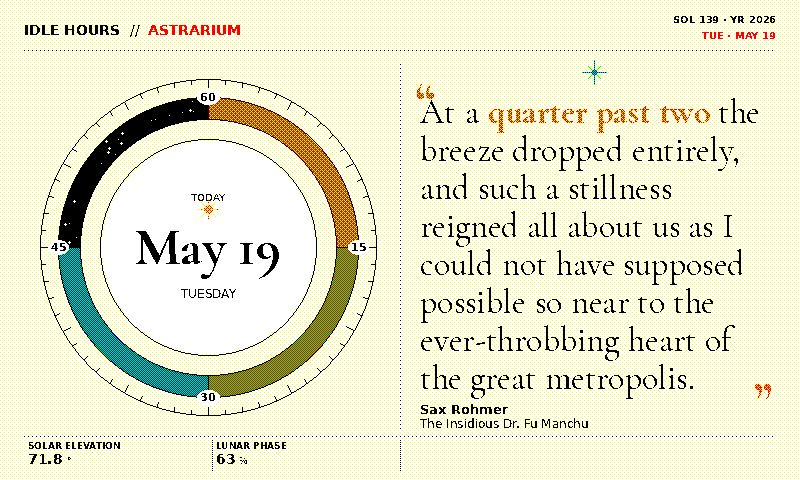
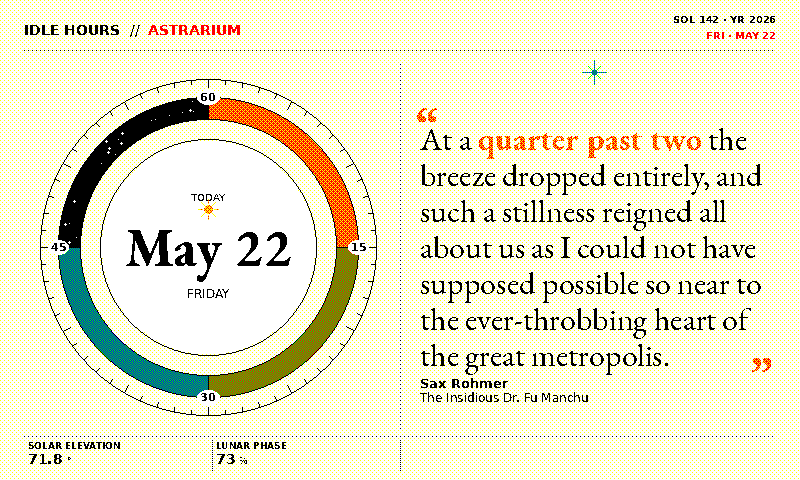
README: add cartograph entry, refresh astrarium preview
Two README updates following the astrarium body-face swap and the
cartograph theme addition:

* **Theme table:** add a ``cartograph`` row before ``diags`` (the
  position THEME_ORDER puts it in); bump the theme count from
  thirty-two to thirty-three; switch the astrarium row's typeface
  from ``Cormorant Garamond`` to ``EB Garamond``; refresh the
  astrarium preview PNG so it reflects the new body face. The
  cartograph preview is fresh (rendered with the same ``--time
  14:15`` / ``--mode production`` invocation the regen-loop
  documents).

* **Theme descriptions:** rewrite the astrarium paragraph to call
  out the EB Garamond body face and the eInk-legibility rationale
  for the swap from Cormorant Garamond; add a new cartograph
  descriptive paragraph covering the eleven layers (cream wash,
  graticule, rhumb lines, foxing, coastlines, islands, compass rose,
  sea serpent, place names, cartouche knockout, registration
  crosses), the typographic register (IM Fell English italic body
  + upright Roman matched phrase as the period-accurate
  cartographic place-name vs body-prose distinction), and the
  ``--mode debug`` compatibility (standard render path so the debug
  banner applies, unlike the four custom-render themes).

* **Regen loop:** add ``cartograph`` to the preview-rebuild
  ``for theme in ...`` snippet so it stays in sync with
  THEME_ORDER.

No font additions needed — every face cartograph uses (IM Fell
English Regular + Italic) was already bundled for the
[…]

diff --git a/README.md b/README.md
@@ -261,7 +261,7 @@ idle-hours run --once --display-script display_inky.py --mode production
 
 ### Themes
 
-Thirty-two themes ship built-in, all constrained to the Spectra 6 panel palette (white / black / red / yellow / blue / green). Each theme pairs its palette with a dedicated typeface. Previews use a fixed quote so palette + typography are the only variables; production renders adapt layout to the picked line.
+Thirty-three themes ship built-in, all constrained to the Spectra 6 panel palette (white / black / red / yellow / blue / green). Each theme pairs its palette with a dedicated typeface. Previews use a fixed quote so palette + typography are the only variables; production renders adapt layout to the picked line.
 
 | `--theme`     | Preview | Page bg | Body  | Accent | Typeface             | Feel                          |
 |---------------|---------|---------|-------|--------|----------------------|-------------------------------|
@@ -294,16 +294,19 @@ Thirty-two themes ship built-in, all constrained to the Spectra 6 panel palette 
 | `lcars`       | <img src="idle_hours/assets/previews/lcars.png" width="240" alt="lcars theme preview">             | black       | white | yellow | Antonio (condensed sans) | LCARS console (Okudagram) |
 | `fillmore`    | <img src="idle_hours/assets/previews/fillmore.png" width="240" alt="fillmore theme preview">       | yellow      | red   | blue   | Bungee Shade (3D display) | 1960s psychedelic concert poster |
 | `firmament`   | <img src="idle_hours/assets/previews/firmament.png" width="240" alt="firmament theme preview">     | navy        | white | gold   | Cardo (humanist serif) | 17th-century celestial atlas (Bayer's *Uranometria*) |
-| `astrarium`   | <img src="idle_hours/assets/previews/astrarium.png" width="240" alt="astrarium theme preview">     | cream/white | black | tangerine | Cormorant Garamond | Astronomical-clock dashboard (custom layout) |
+| `astrarium`   | <img src="idle_hours/assets/previews/astrarium.png" width="240" alt="astrarium theme preview">     | cream/white | black | tangerine | EB Garamond          | Astronomical-clock dashboard (custom layout) |
 | `kanagawa`    | <img src="idle_hours/assets/previews/kanagawa.png" width="240" alt="kanagawa theme preview">       | white       | black | red    | Yuji Boku (sumi-brush) | Hokusai-inspired seigaiha woodblock |
 | `marquee`     | <img src="idle_hours/assets/previews/marquee.png" width="240" alt="marquee theme preview">         | black       | white | red    | Cardo Italic + Bungee Shade | 1930s movie-palace marquee (custom layout) |
 | `tarot`       | <img src="idle_hours/assets/previews/tarot.png" width="240" alt="tarot theme preview">             | cream/white | black | Tyrian purple | EB Garamond + Cinzel Decorative | Major-arcana card (custom layout) |
 | `vinyl`       | <img src="idle_hours/assets/previews/vinyl.png" width="240" alt="vinyl theme preview">             | cream/white | black | tangerine | Cormorant Garamond | Turntable + literary-audiobook LP (custom layout) |
+| `cartograph`  | <img src="idle_hours/assets/previews/cartograph.png" width="240" alt="cartograph theme preview">   | cream/white | black | red    | IM Fell English Italic | Antique cartographer's chart |
 | `diags`       | <img src="idle_hours/assets/previews/diags.png" width="240" alt="diags theme preview">             | white       | black | red    | DejaVu Sans          | Calibration / status panel    |
 
 `diags` replaces the literary frame with a status panel — big clock + picker metrics (bucket / layout / quality / source / matched phrase), a `HOST` / `IP` / `UPTIME` strip, the Spectra 6 native palette, and the synthesised 2-ink stipple recipes documented in [`CLAUDE.md`](CLAUDE.md). Useful for on-panel colour calibration ("does `mint` actually read as green at viewing distance?") and for confirming the picker chose what you'd expect. It is **excluded from `--theme random`** (a random pick replacing the literary frame with a swatch screen would be surprising); manual selection via button B / web dropdown still works.
 
-`astrarium` is the second theme that bypasses the literary layout (the first being `diags`). Renders a two-column dashboard: an astronomical-clock dial on the left (outer minute-tick ring, four halftone quadrants painted via the documented two-ink stipples — tangerine R+Y, sepia R+G, teal G+B, black with a seeded constellation speckle — and a central HH:MM digital readout), the quote on the right with the matched phrase in R+Y tangerine, and a bottom datum strip with three instrument-style panels — solar elevation (derived from time of day), lunar phase (derived from day of year), and system status. Body type is Cormorant Garamond, shared with `mucha`. Same dispatch pattern as `diags`: the custom render path replaces the standard layout, so the `--mode debug` overlay does not apply.
+`astrarium` is the second theme that bypasses the literary layout (the first being `diags`). Renders a two-column dashboard: an astronomical-clock dial on the left (outer minute-tick ring, four halftone quadrants painted via the documented two-ink stipples — tangerine R+Y, sepia R+G, teal G+B, black with a seeded constellation speckle — and a central HH:MM digital readout), the quote on the right with the matched phrase in R+Y tangerine, and a bottom datum strip with two instrument-style panels — solar elevation (derived from time of day) and lunar phase (derived from day of year). Body type is **EB Garamond** — a humanist Renaissance old-style serif chosen for its eInk legibility, the same body face `illuminated` / `gothic` / `tarot` use. The earlier revision used Cormorant Garamond, but Cormorant's hairline strokes drop below 1 px on the Spectra 6 pixel grid at the dashboard's 18-38 pt fit range and disappear into the cream-washed ground; EB Garamond's even, moderate-contrast strokes survive the panel intact while preserving the period editorial register the dashboard wants. Same dispatch pattern as `diags`: the custom render path replaces the standard layout, so the `--mode debug` overlay does not apply.
+
+`cartograph` is a hand-drawn antique cartographer's chart — the terrestrial-map sibling of the navigation trio that already includes `firmament` (celestial atlas) and `astrarium` (instrument-panel dashboard). Eleven-layer composition on a cream Y+W Bayer-washed parchment ground: a sepia 9×5 latitude/longitude **graticule** with degree-tick stubs at the canvas edges (the single biggest "this is a chart" cue — parallels and meridians are what turn an illustrated page into a navigable map); eight **rhumb lines** radiating from the compass rose at every 45° to the canvas edges (the canonical portolan-chart marking that signals navigational use); a sepia **foxing scatter** for aged-paper texture; two diagonal-corner **coastline silhouettes** at TL and BR, filled in R+G sepia via the documented two-ink recipe; three small scattered **islands** in the open-sea margins; an R+Y tangerine **compass rose** at the bottom-left (8-point — four long cardinals + four shorter ordinals); a small black **sea-serpent doodle** in the bottom-mid sea ("here be dragons" margin convention); three Latin **place-name labels** in italic sepia (*Mare Incognitum* top centre, *Insula Aurea* top right, *Terra Nova* bottom centre); and a doubled red+black rubricated **cartouche knockout** around the body text with small registration-cross corner accents, echoing the doubled rule `illuminated` and `tarot` use, here scaled inward as a contained cartouche rather than a page frame. Body in **IM Fell English Italic** (the period-accurate cartographic register 17th-century mapmakers used for ocean and place labels — promoting the Oxford-press italic from the ornament-only role `herbarium` uses for its Latin specimen tag to a primary body face is a fresh silhouette in the rotation). The matched-phrase role picks IM Fell *Regular* (upright Roman) — the canonical "place name vs body prose" distinction every real cartographer made, so differentiation arrives via colour (red) + roman/italic split rather than weight alone. Unlike `astrarium` / `marquee` / `tarot` / `vinyl`, `cartograph` runs through the **standard render path**, so the `--mode debug` overlay applies — the DEBUG MODE banner clears the chart in the top-right corner by design.
 
 `marquee`, `tarot`, and `vinyl` are three more custom-render themes that follow the `astrarium` pattern — each dispatches out of `render()` into its own frame function and owns its composition top to bottom. **`marquee`** is a 1930s movie-palace facade: a black ground framed by an alternating yellow + red bulb-light border around the entire perimeter (with small white highlight pixels on each bulb so they read as lit glass), big chunky Bungee Shade book title at the top as the "feature title" (uppercased, auto-shrunk through 72→32pt and wrapping to two lines for long titles), a NOW SHOWING tagline above and ONE NIGHT ONLY below, the literary quote rendered in white Cardo Italic with a red matched-phrase accent as the feature copy, and a WRITTEN BY [AUTHOR] credit chrome at the bottom (yellow Antonio Bold label + white Cardo Italic name). The digital HH:MM is deliberately never surfaced — the matched-phrase red highlight in the body carries the time signal, the way every other quote-based literary clock does. **`tarot`** is a single centred major-arcana card on a cream-and-sepia foxed vellum ground: doubled red+black rubricated border with playing-card-style Roman numerals in all four corners (bottom pair rotated 180°), Roman-numeral hour at top (Cinzel Decorative Black), matched-phrase card name in Tyrian purple (R+B 1:1 dither), an hour-mapped emblem at centre (all twelve trumps — Magician through World — ship as detailed line-work templates, ~140–200 px tall), EB Garamond body sitting in a clean cream cartouche knocked out of the surrounding foxing, centred attribution. **`vinyl`** is a turntable + LP back-cover, framed as a 1950s/60s **literary audiobook recording** — same chassis a music LP would have, but with the chrome text in the spoken-word register that real labels like Caedmon Records (Dylan Thomas, T. S. Eliot, Auden) and Spoken Arts pressed during the original audiobook-on-vinyl era. A black vinyl LP fills the left half (centre at (200, 240), radius 200, densely-packed concentric groove hairlines + smooth dead-wax ring + heavier lead-in groove at the rim); a pivoted black tonearm pivots from the upper-right of the turntable with a visible counterweight + cartridge headshell + red stylus pin contacting the disk at the current-minute rim position (sweeping clockwise from 12-o'-clock). The red 80-px-radius label at the spindle carries an outer black ring border, a `· SPOKEN WORD ·` format mark, the matched-phrase passage title, an `IDLE HOURS / READ ALOUD` brand stack, a Space Mono catalog number like `IH-H2-30`, and a `© YYYY` year stamp. The right half is a cream-washed liner-notes panel: a small red `— READING —` heading at the top, the literary quote in Cormorant Garamond with a tangerine R+Y matched-phrase substitution, author/title attribution, and a bottom catalog bar reading `IDLE HOURS LITERARY RECORDINGS  ·  CAT NO. …  ·  © YYYY`. A `33 RPM` badge sits in the top-right corner. As with the other custom-render themes, `--mode debug` does not apply.
 
@@ -322,7 +325,7 @@ Button B cycles forward through the list and wraps; the curator web UI at `/api/
 > Regenerate previews: the images under `idle_hours/assets/previews/` can be rebuilt by looping over `render_quote.THEME_ORDER` and calling the `render_quote.py` CLI for a fixed time, e.g.:
 >
 > ```bash
-> for theme in default dark swiss scholar herbarium newsprint nightvision blueprint illuminated gothic bauhaus risograph comic dispatch atomic marker saloon roman alchemy grimoire deco glacier mucha chalkboard placard chanbara lcars fillmore firmament astrarium kanagawa marquee tarot vinyl diags; do
+> for theme in default dark swiss scholar herbarium newsprint nightvision blueprint illuminated gothic bauhaus risograph comic dispatch atomic marker saloon roman alchemy grimoire deco glacier mucha chalkboard placard chanbara lcars fillmore firmament astrarium kanagawa marquee tarot vinyl cartograph diags; do
 >   idle-hours render --time 14:15 --theme "$theme" --mode production \
 >     --output "idle_hours/assets/previews/$theme.png"
 > done
